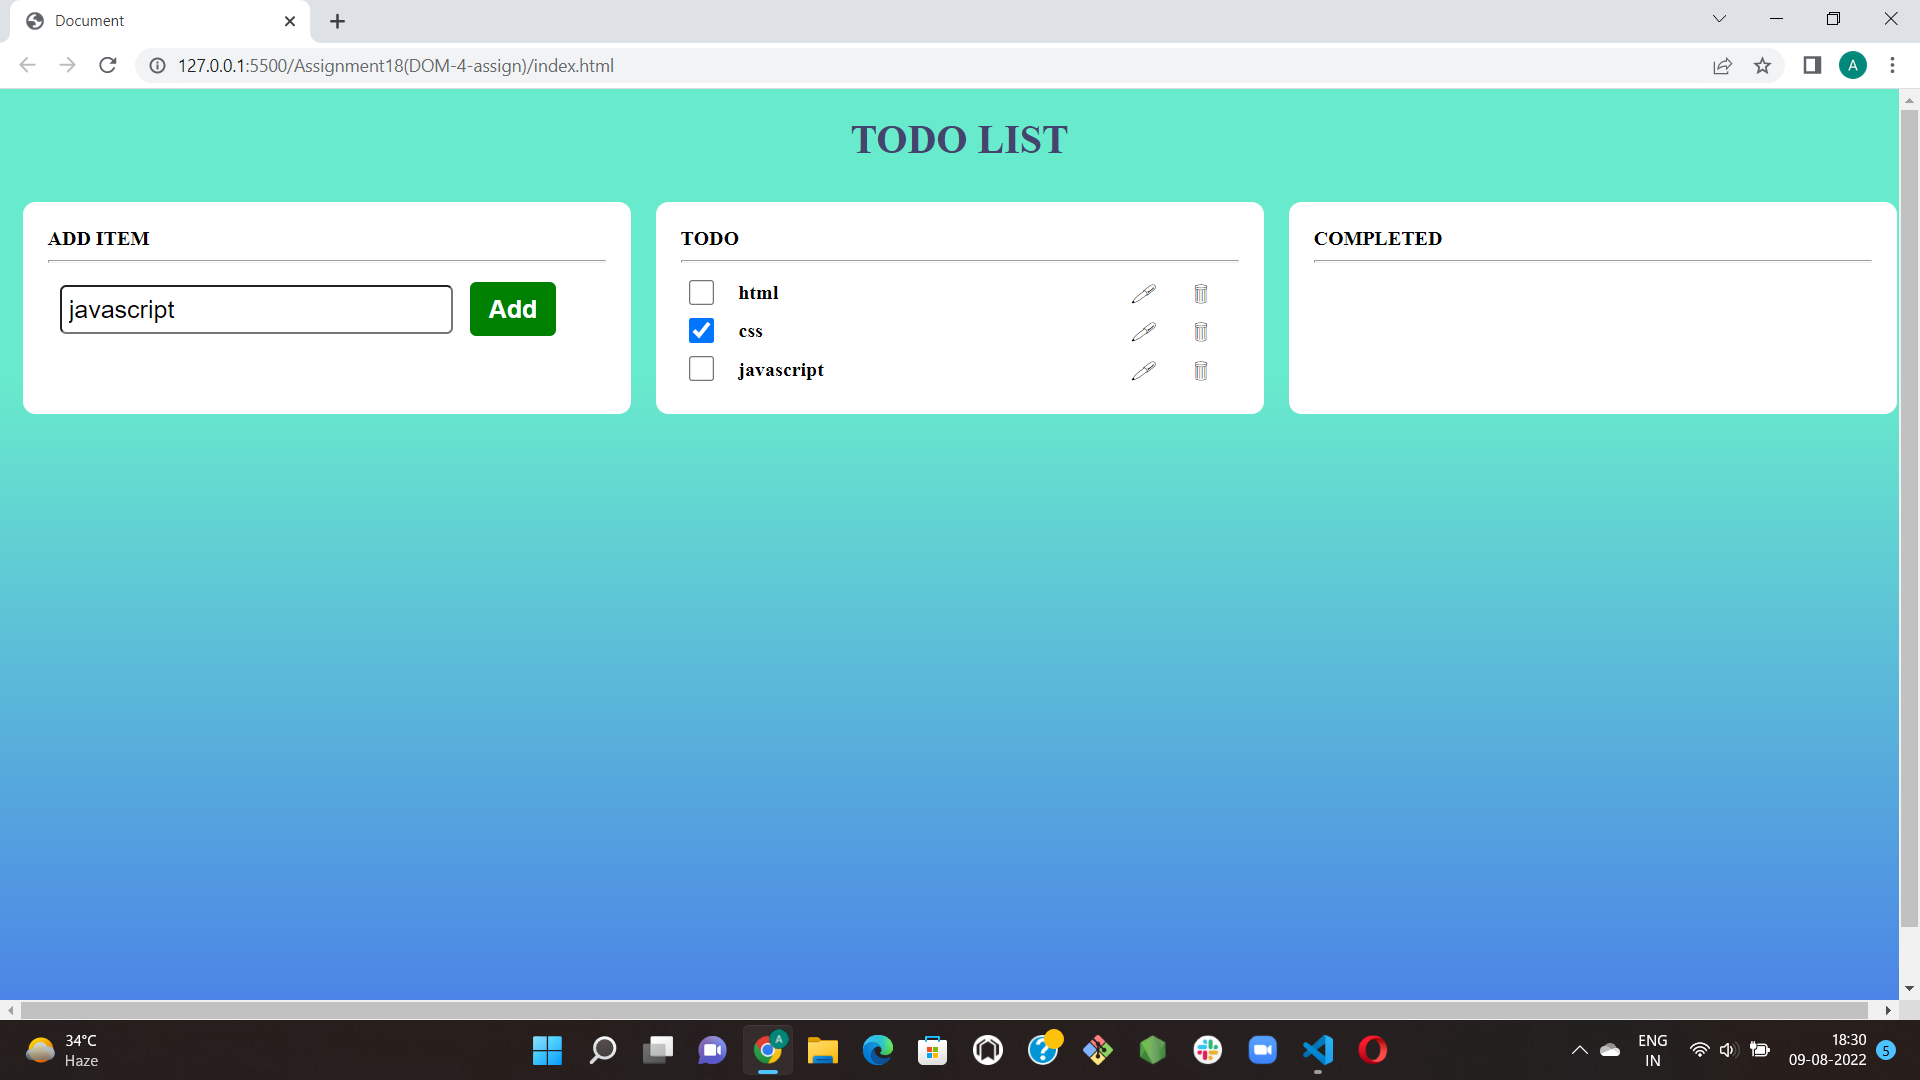
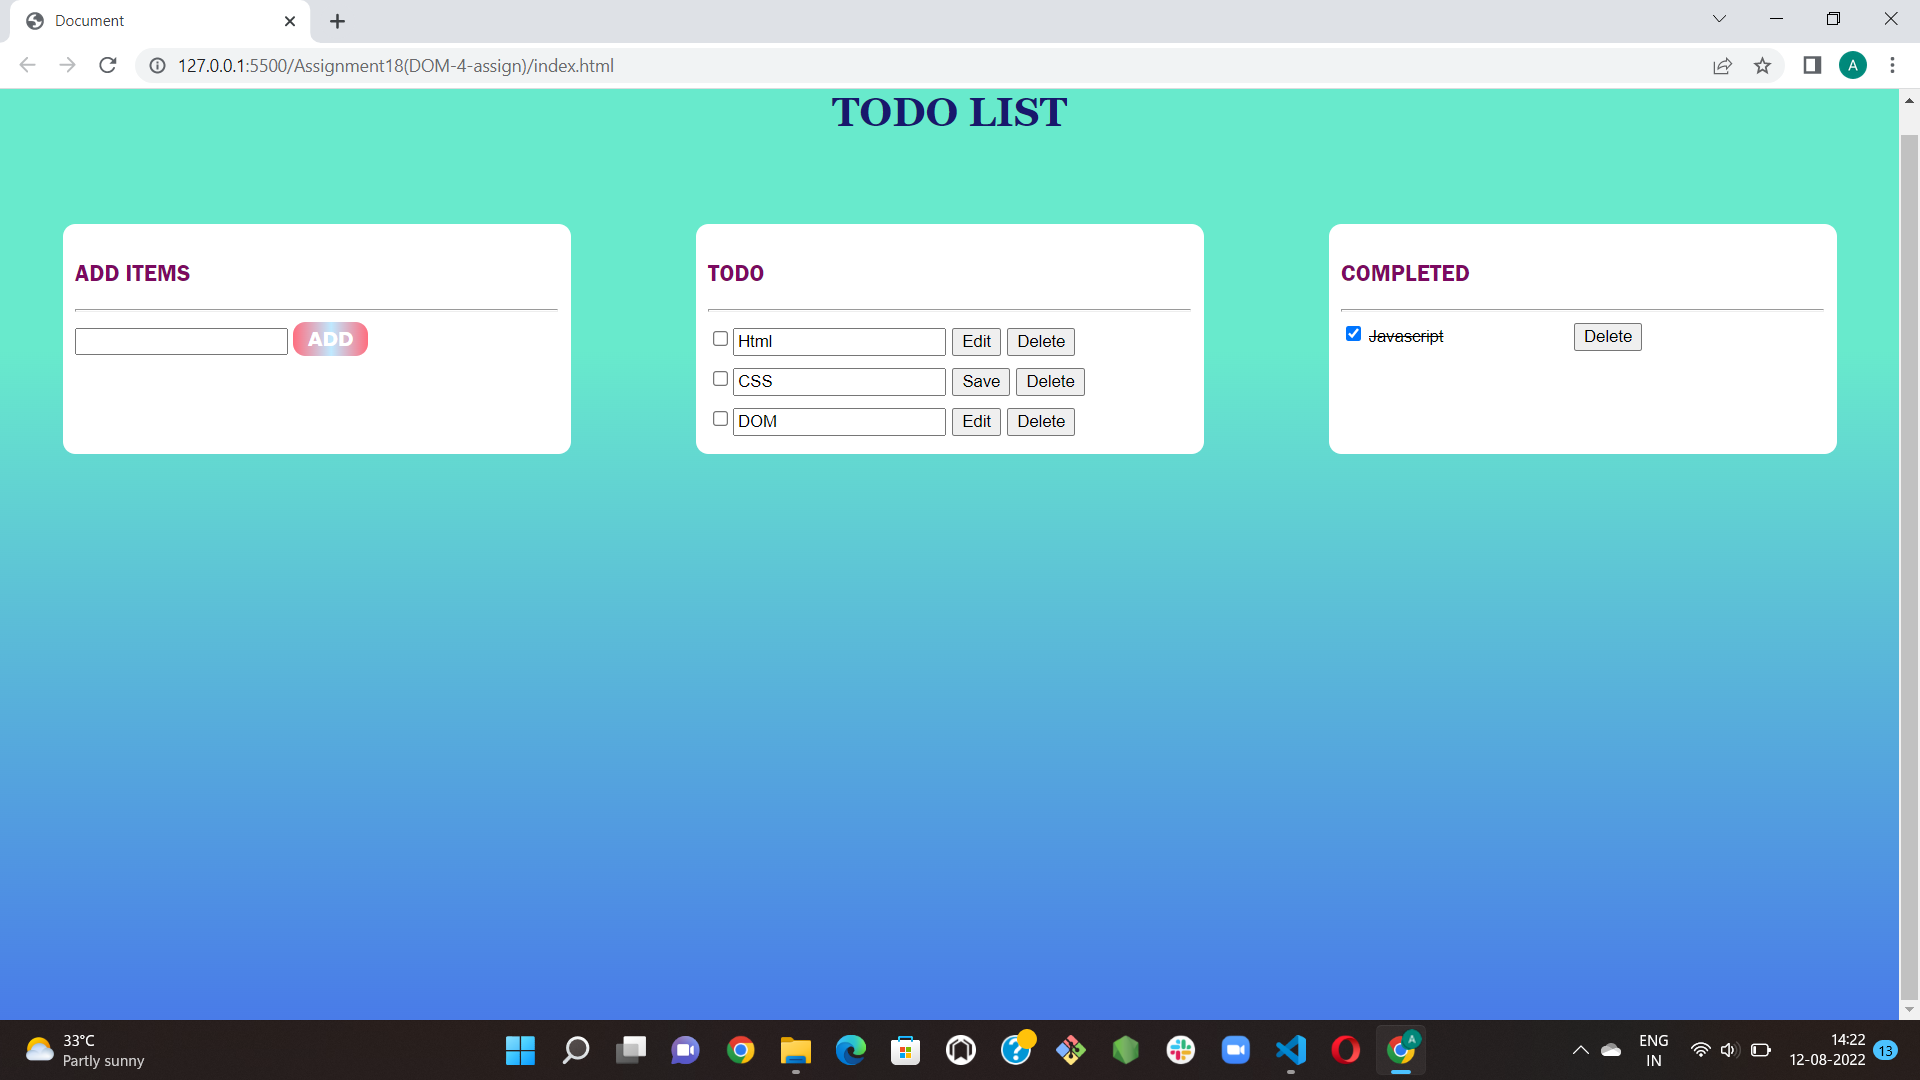
practice

diff --git a/Assignment18(DOM-4-assign)/app.js b/Assignment18(DOM-4-assign)/app.js
@@ -1,52 +1,54 @@
-const input=document.querySelector(".input");
-const btn=document.querySelector(".btn");
-const tbody=document.querySelector("tbody");
-const tbody2=document.querySelector("tbody2");
-const removebtn=document.querySelector("#delete");
-const check=document.querySelector("#check");
+const input = document.querySelector('.input');
+const btn = document.querySelector('.btn');
+const todo = document.querySelector('.todo');
+const todoIn = document.querySelector('.todo-in');
+const comp = document.querySelector('.complete');
+
+btn.addEventListener("click", function(){
+    setTimeout(function(){
+        input.value = "";
+    }, 1);
+
+    if (input.value.length > 0) {
+        let todoOuterDiv = document.createElement('div');
+        let check = document.createElement("input");
+        check.type = "checkbox";
+        let todoInput = document.createElement("input");
+        let button1 = document.createElement("button");
+        button1.innerText = "Edit";
+        button1.style.margin='5px';
+        let button2 = document.createElement("button");
+        button2.innerText = "Delete";
+        todoOuterDiv.append(check, todoInput, button1, button2);
+        todoIn.append(todoOuterDiv);
+
+        todoInput.value = input.value;
+        todoInput.setAttribute("readonly", "readonly");
 
 
-btn.addEventListener('click',(e)=>{
-    e.preventDefault();
-    const newElm= document.createElement("tr");
-    newElm.setAttribute('class','row');
-    newElm.innerHTML = `
-    <td class="check-box"><input type="checkbox" id="check">
-    <td id="data">${input.value}</td>
-    <td class="edit-btn"><button id="edit">\u{1F58A}</button></td>
-    <td class="delete-btn"><button id="delete">\u{1F5D1}</button></td>
-    `;
-    tbody.appendChild(newElm);
-});
+        button1.addEventListener('click', function(){
+            if (button1.innerText == "Edit") {
+                button1.innerText = "Save";
+                todoInput.removeAttribute('readonly');
+            } else {
+                button1.innerText = "Edit";
+                todoInput.setAttribute('readonly', 'readonly');
+            }
+        });
 
+        button2.addEventListener('click', function() {
+            button2.parentElement.remove();
+        });
 
-const removeRow=(e)=>{
-    if(e.target.id=='delete')
-    e.target.parentElement.parentElement.remove();
-}
+        let compDiv = document.createElement("div");
+        comp.append(compDiv);
 
-tbody.addEventListener('click',removeRow);
-
-
-const editRow=(e)=>{
-    if(e.target.id=='edit')
-    e.taget.input.value.contenteditable='true';
-    // e.taget.input.value.focus();
-    e.taget.input.value.innerText = "Save";
-}
- 
-tbody.addEventListener('click', editRow);
-
-
-check.addEventListener('click',(e)=>{
-    e.preventDefault();
-    const compElm= document.createElement("tr");
-    compElm.setAttribute('class','row');
-    compElm.innerHTML = `
-    // <td class="check-box"><input type="checkbox" id="check">
-    <td id="data">${tbody.value}</td>
-    // <td class="edit-btn"><button id="edit">\u{1F58A}</button></td>
-    // <td class="delete-btn"><button id="delete">\u{1F5D1}</button></td>
-    `;
-    tbody2.appendChild(compElm);
+        check.addEventListener('click', function(){
+            check.parentElement.remove();
+            compDiv.append(todoOuterDiv);
+            button1.remove();
+            todoInput.style.border = "none";
+            todoInput.style.textDecoration = "line-through";
+        })
+    }
 });

diff --git a/Assignment18(DOM-4-assign)/style.css b/Assignment18(DOM-4-assign)/style.css
@@ -1,72 +1,45 @@
 body{
-    height: 100vh;
-    width: 100%;
     background: linear-gradient(to bottom, #68EACC 30%, #497BE8);
+    height: 100vh;
+    margin: 0;
+    padding: 0;
 }
 
 h1{
-    text-transform: uppercase;
     text-align: center;
-    color: rgb(68, 68, 111);
+    color:rgb(24, 24, 108);
+    font-family:Georgia, 'Times New Roman', Times, serif;
+    font-weight: bolder;
 }
 
-.todo-list{
+.outer-box{
     display: flex;
-    justify-content: center;
+    justify-content: space-between;
+    text-transform: uppercase;
 }
 
-.input{
-    line-height: 25px;
-    outline: none;
-    border-radius: 5px;
-    margin: 10px;
-    width: 300px;
-    padding: 5px;
-    font-size: 20px;
-}
-
-.box{
-    height: auto;
-    width: 30%;
+.add-items,.todo,.complete{
+    padding: 10px;
+    /* margin: 0 30px; */
     background-color: white;
-    margin: 10px;
-    padding: 20px;
-    font-weight: bold;
+    width: 400px;
     border-radius: 10px;
+    color: #7b0a61;
+    font-family: 'Franklin Gothic Medium', 'Arial Narrow', Arial, sans-serif;
+    margin:50px;
+
 }
 
 .btn{
-    background-color: green;
+    position: relative;
+    width: 60px;
+    height: 27px;
+    background: linear-gradient(to right, #ff6e7f 0%, #bfe9ff 51%, #ff6e7f 100%);
+    border: none;
+    border-radius: 10px;
+    font-weight: bolder;
+    font-size: 15px;
     color: white;
-    font-size: 20px;
-    border-radius: 5px;
-    padding: 10px 15px;
+    font-family: Verdana, Geneva, Tahoma, sans-serif;
     cursor: pointer;
-    border: none;
-    font-weight: bold;
-}
-
-table{
-    width: 100%;
-
-}
-
-#edit,#delete{
-    border: none;
-    background-color: white;
-    font-size: 20px;
-    width: 20px;
-    text-align: right;
-    padding: 0;
-    margin: 0;
-    cursor: pointer;
-}
-
-.edit-btn,.delete-btn,.check-box{
-    width: 40px;
-}
-
-#check{
-     height: 20px;
-     width: 20px;
 }

diff --git a/Assignment18(DOM-4-assign)/index.html b/Assignment18(DOM-4-assign)/index.html
@@ -8,25 +8,28 @@
     <link rel="stylesheet" href="style.css">
 </head>
 <body>
-    <h1>Todo List</h1>
-    <div class="todo-list">
-        <div class="box">ADD ITEM<hr>
-            <div class="userInput">
+    <div class="container">
+        <h1 class="h1">TODO LIST</h1>
+
+        <div class="outer-box">
+            <div class="add-items">
+                <h3>add items</h3><hr>
                 <input type="text" class="input">
-                <input type="button" value="Add" onclick="AddRow()" class="btn">
+                <button class="btn">ADD</button>
+            </div>
+    
+            <div class="todo">
+                <h3>todo</h3><hr>
+                <div class="todo-in"></div>
+            </div>
+    
+            <div class="complete">
+                <h3>completed</h3><hr>
+                <div class="comp"></div>
             </div>
         </div>
-        <div class="box">TODO<hr>
-            <table class="data">
-                <tbody class="tbody"></tbody>
-            </table>
-        </div>
-        <div class="box">COMPLETED<hr>
-            <table class="check">
-                <tbody class="tbody2"></tbody>
-            </table>
-        </div>
     </div>
+    
     <script src="app.js"></script>
 </body>
 </html>
